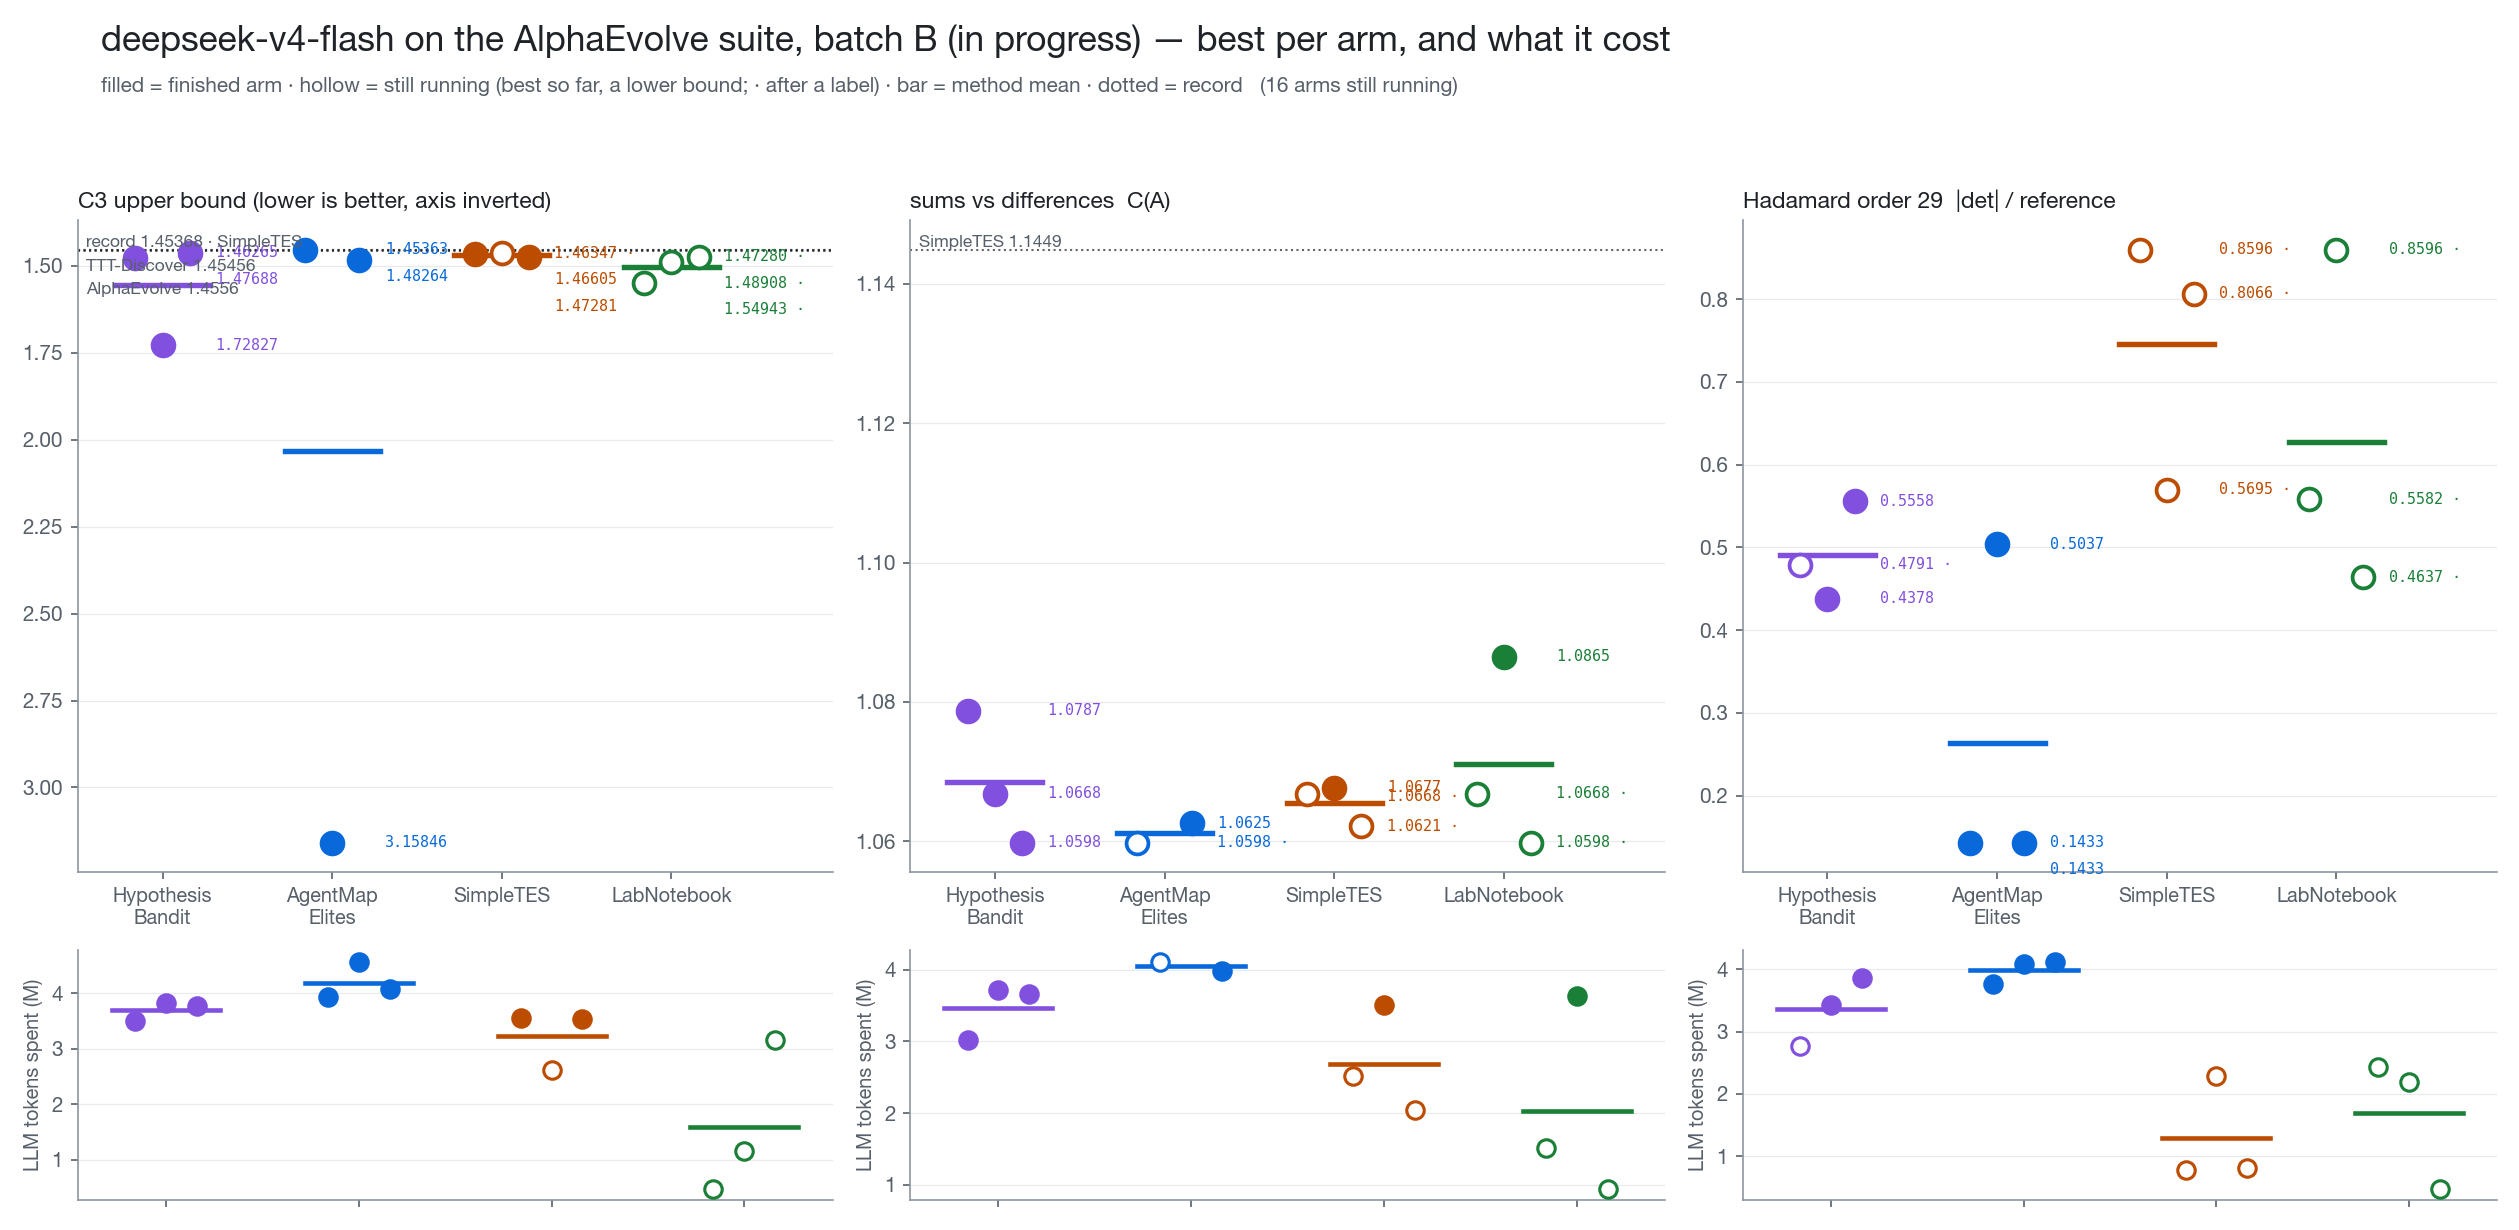
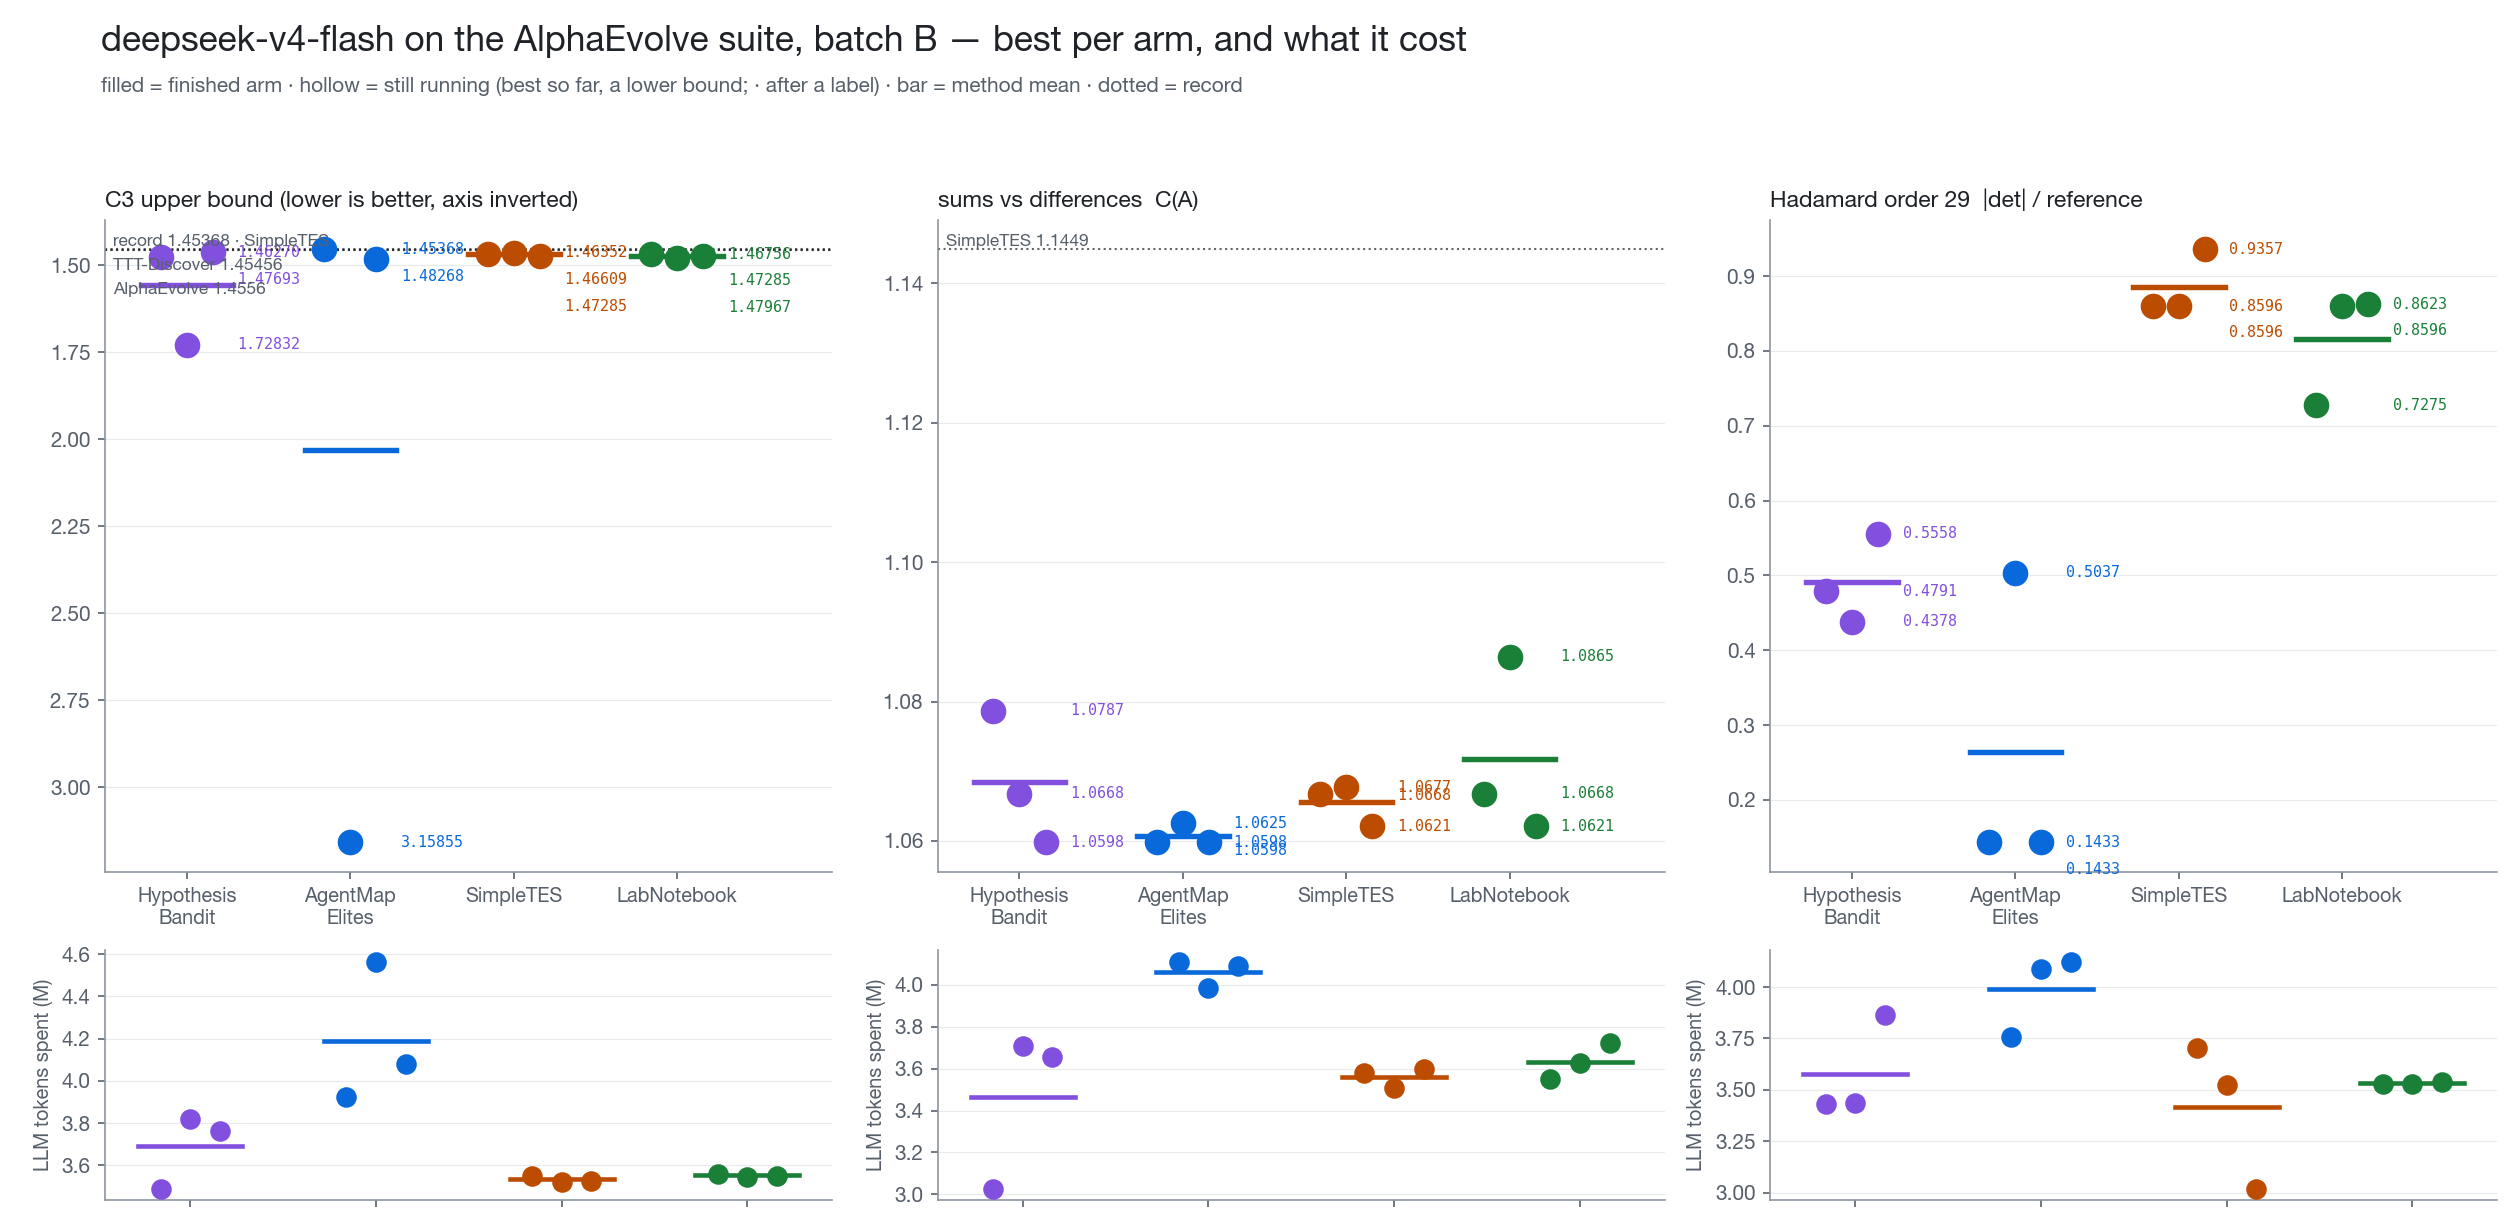
fix(evolution): a resumed arm that ends on its restored budget is finished, not empty
run_bench adds the restored history rows to items_run; the loaders treat any summary.json
as a finished arm (only partials are running). Also: the C3 display transform uses the
evaluator's own reference constant. Docs: AlphaEvolve-suite batch B final.

diff --git a/examples/evolution_bench/docs/lab_notebook_results.tex b/examples/evolution_bench/docs/lab_notebook_results.tex
@@ -246,48 +246,51 @@ v1, with the 2026 systems a clear band above. $C_2$: above AlphaEvolve v1 and th
 below the 2026 band.}
 \end{figure}
 
-\paragraph{Batch B (in progress).} Third autocorrelation inequality ($C_3$, upper bound, lower is
+\paragraph{Batch B.} Third autocorrelation inequality ($C_3$, upper bound, lower is
 better; harness score $1.4556/C_3$), sums vs differences ($C(A)$, higher is better) and the
 Hadamard maximal determinant of order 29 (score $|\det|$ relative to a reference; no published
 value recorded). Published: $C_3$ --- AlphaEvolve 1.4556, TTT-Discover 1.454555, SimpleTES 1.453675
-(record); $C(A)$ --- SimpleTES 1.1449. Table~\ref{tab:aeb} is a snapshot with most LabNotebook and
-SimpleTES arms still running; the MAP-Elites $C_3$ value of 1.45363 would sit below the published
-record and is awaiting re-verification.
+(record); $C(A)$ --- SimpleTES 1.1449. All 36 arms finished. The MAP-Elites $C_3$ construction re-evaluates to exactly
+1.453675 --- SimpleTES's published value to six decimals --- so the model reproduced the known
+construction rather than finding a new one; it is reported but not claimed.
 
 \begin{table}[H]\centering\small
-\caption{Batch B snapshot (2026-09-04 06:30 PDT). $^\circ$ = still running (lower bound); a dash is
-an arm without data yet.}
+\caption{Batch B, all 36 arms finished: per-arm results in the papers' units.}
 \label{tab:aeb}
 \begin{tabular}{@{}lrrrrr@{}}
 \toprule
 \multicolumn{6}{@{}l}{\textbf{$C_3$, third autocorrelation inequality} --- upper bound, lower is better} \\
 method & s0 & s1 & s2 & mean & tokens \\
 \midrule
-HypothesisBandit & 1.47688 & 1.72827 & 1.46265 & 1.55594 & 3.7 \\
-AgentMapElites & 1.45363 & 3.15846 & 1.48264 & 2.03158 & 4.2 \\
-SimpleTES & 1.46605 & 1.46347$^\circ$ & 1.47281 & 1.46744 & 3.2 \\
-LabNotebook & 1.54943$^\circ$ & 1.48908$^\circ$ & 1.47280$^\circ$ & 1.50377 & 1.6 \\
+HypothesisBandit & 1.47693 & 1.72832 & 1.46270 & 1.55598 & 3.7 \\
+AgentMapElites & 1.45368$^\ddagger$ & 3.15855 & 1.48268 & 2.03164 & 4.2 \\
+\textbf{SimpleTES} & 1.46609 & \textbf{1.46352} & 1.47285 & \textbf{1.46749} & 3.5 \\
+LabNotebook & 1.46756 & 1.47967 & 1.47285 & 1.47336 & 3.6 \\
+\multicolumn{6}{@{}l}{\footnotesize published: AlphaEvolve 1.4556 $\cdot$ TTT-Discover 1.454555 $\cdot$ SimpleTES 1.453675 (record);
+  $^\ddagger$ reproduces the record value} \\
 \midrule
 \multicolumn{6}{@{}l}{\textbf{sums vs differences} --- $C(A)$, higher is better} \\
 \midrule
 HypothesisBandit & 1.0787 & 1.0668 & 1.0598 & 1.0684 & 3.5 \\
-AgentMapElites & 1.0598$^\circ$ & 1.0625 & --- & 1.0612 & 4.0 \\
-SimpleTES & 1.0668$^\circ$ & 1.0677 & 1.0621$^\circ$ & 1.0655 & 2.7 \\
-LabNotebook & 1.0668$^\circ$ & \textbf{1.0865} & 1.0598$^\circ$ & 1.0710 & 2.0 \\
+AgentMapElites & 1.0598 & 1.0625 & 1.0598 & 1.0607 & 4.1 \\
+SimpleTES & 1.0668 & 1.0677 & 1.0621 & 1.0655 & 3.6 \\
+\textbf{LabNotebook} & 1.0668 & \textbf{1.0865} & 1.0621 & \textbf{1.0718} & 3.6 \\
+\multicolumn{6}{@{}l}{\footnotesize published: SimpleTES 1.1449} \\
 \midrule
 \multicolumn{6}{@{}l}{\textbf{Hadamard, order 29} --- $|\det|$ / reference, higher is better} \\
 \midrule
-HypothesisBandit & 0.4791$^\circ$ & 0.4378 & 0.5558 & 0.4909 & 3.4 \\
+HypothesisBandit & 0.4791 & 0.4378 & 0.5558 & 0.4909 & 3.6 \\
 AgentMapElites & 0.1433 & 0.5037 & 0.1433 & 0.2634 & 4.0 \\
-SimpleTES & 0.8596$^\circ$ & 0.5695$^\circ$ & 0.8066$^\circ$ & 0.7452 & 1.3 \\
-LabNotebook & 0.5582$^\circ$ & 0.8596$^\circ$ & 0.4637$^\circ$ & 0.6272 & 1.7 \\
+\textbf{SimpleTES} & 0.8596 & 0.8596 & \textbf{0.9357} & \textbf{0.8850} & 3.4 \\
+LabNotebook & 0.7275 & 0.8596 & 0.8623 & 0.8165 & 3.5 \\
 \bottomrule
 \end{tabular}
 \end{table}
 
 \begin{figure}[H]\centering
 \includegraphics[width=\textwidth]{lab_notebook_figs/overview_ae_batchB.png}
-\caption{Batch B snapshot. Hollow markers are arms still running.}
+\caption{Batch B, all arms finished. $C_3$ and Hadamard go to SimpleTES, sums vs differences to
+LabNotebook; on $C_3$ the two are within replicate spread.}
 \end{figure}
 
 \subsection{Cost}
@@ -330,9 +333,12 @@ called LabNotebook the cheapest method; that was read from partial arms and is w
 \item \textbf{Where SimpleTES is better: exploiting an incumbent.} Under a warm start SimpleTES
   improves on every seed and LabNotebook gets worse on two of three. The fix is cheap
   ($p_{\text{best}}\to1$ and a smaller $K$ when a warm start is present) but has not been run.
-\item \textbf{AlphaEvolve suite.} Packing $n{=}32$: LabNotebook on the record 3/3, SimpleTES 2/3.
-  $C_2$ is LabNotebook's on every replicate; $C_1$ is SimpleTES's by 0.0003 in the mean --- a tie.
-  Both are behind the 2026 systems by margins their extra compute explains.
+\item \textbf{AlphaEvolve suite.} Batch A: packing $n{=}32$ LabNotebook on the record 3/3, SimpleTES
+  2/3; $C_2$ LabNotebook's on every replicate; $C_1$ a tie. Batch B: sums vs differences LabNotebook's
+  (best single and mean); $C_3$ a tie (SimpleTES by 0.006 in the mean); Hadamard-29 SimpleTES's
+  (0.885 vs 0.817). Across the six tasks so far: LabNotebook ahead on three, SimpleTES on one, two
+  ties --- and both far ahead of the two agent-based methods. All are behind the 2026 systems by
+  margins their extra compute explains.
 \item \textbf{Limits of the evidence.} Three arms per cell; model sampling unseeded; the pro SimpleTES
   AHC039 arms are lower bounds after preemptions; and the ablation that would attribute the effect
   --- LabNotebook with random ideas and no notebook, same budget --- has not been run.

diff --git a/examples/evolution_bench/plot_tasks.py b/examples/evolution_bench/plot_tasks.py
@@ -60,7 +60,7 @@ PANELS = {
                          (0.9015, "best human 0.9015"),
                          (0.8962, "AlphaEvolve v1 0.8962")], "{:.4f}"),
     "autocorr_third": ("C3 upper bound (lower is better, axis inverted)",
-                       lambda b: 1.4556 / b if b else float("nan"), True,
+                       lambda b: 1.4556427953745406 / b if b else float("nan"), True,   # the evaluator's reference constant
                        [(1.453675, "record 1.45368 · SimpleTES"), (1.454555, "TTT-Discover 1.45456"),
                         (1.4556, "AlphaEvolve 1.4556")], "{:.5f}"),
     "sums_diffs": ("sums vs differences  C(A)", lambda b: b, False, [(1.1449, "SimpleTES 1.1449")], "{:.4f}"),
@@ -97,7 +97,9 @@ def load(pattern: str):
             m = infer_method(base)
         else:
             m = method_of(r)
-        done = bool(r.get("items_run", 0) > 0) and not r.get("partial")
+        # a summary.json is a finished arm even when items_run is 0 -- an arm resumed after a
+        # preemption may end at once on its restored budget; only partials are still running
+        done = not r.get("partial")
         # finished arms report the store-derived (first-read) best; live ones the history max
         best = r.get("best_combined_score") if done else None
         if best is None:

diff --git a/examples/evolution_bench/run_bench.py b/examples/evolution_bench/run_bench.py
@@ -350,7 +350,9 @@ async def main(a) -> None:
                                                      timeline)
     json.dump({"task": a.task, "evolve": evolve_file, "method": method.name, "model": a.model, "seed": a.seed,
                "operator": operator, "search": search, "seed_sha": seed_sha,
-               "items_run": res.items_run, "failures": res.failures,
+               # rows restored on --resume count as run: a resumed arm that ends at once on its
+               # restored budget is finished, not empty
+               "items_run": res.items_run + len(prev_hist), "failures": res.failures,
                "best_combined_score": best_score, "seed_combined_score": seed_score,
                "best_child_combined_score": best_child_score,
                "seed_remeasures": max(0, len(seed_ms) - 1),
